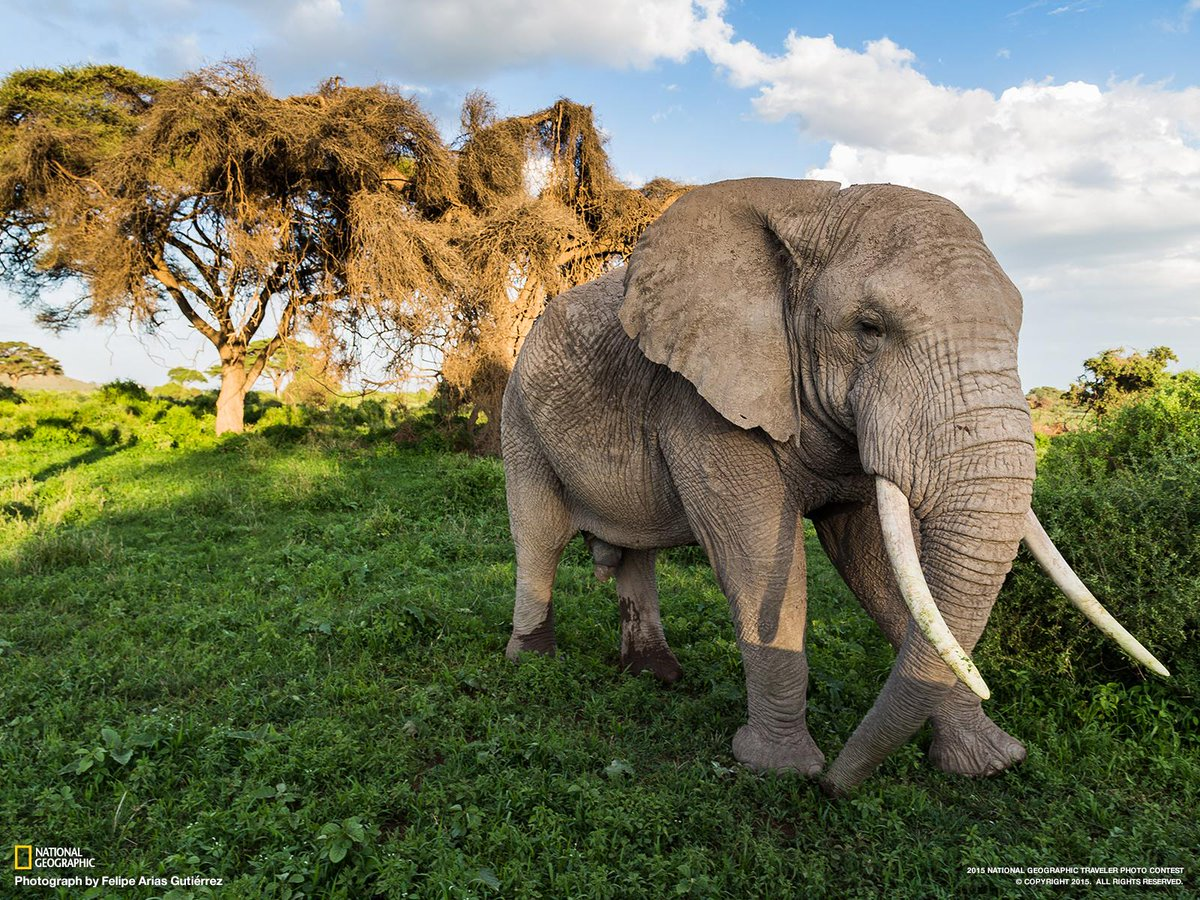
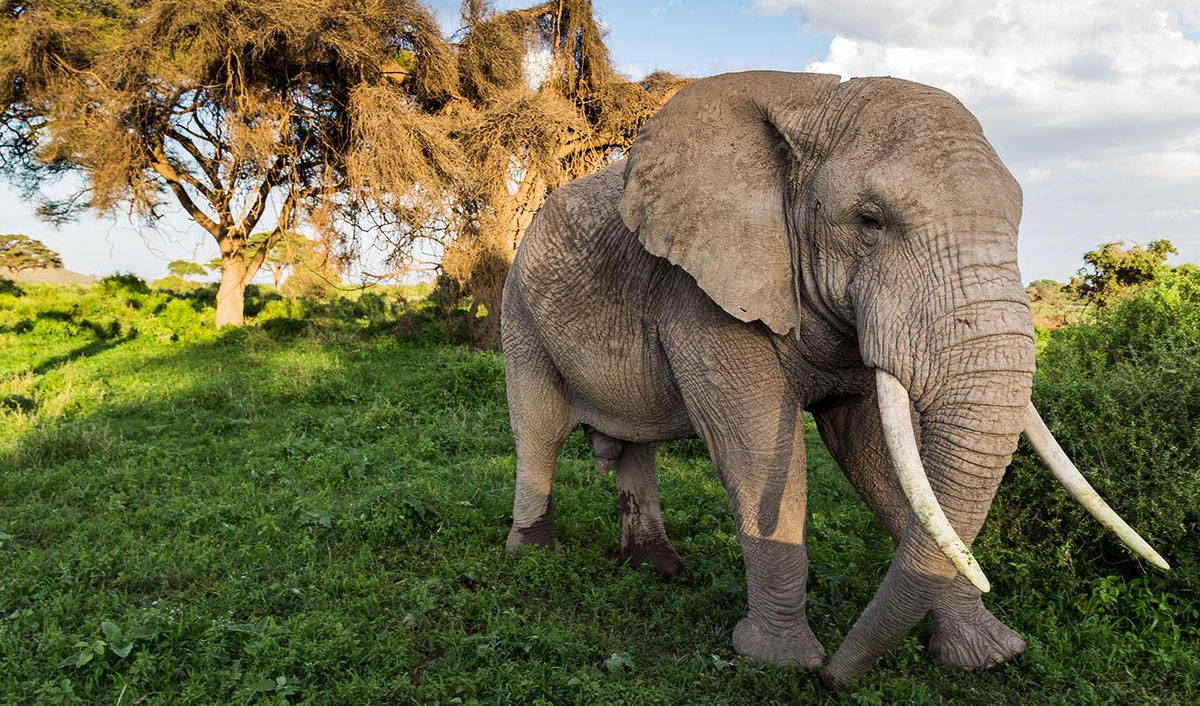
Fixed header image again

diff --git a/stylesheets/pages/_assignment-1.scss b/stylesheets/pages/_assignment-1.scss
@@ -9,15 +9,24 @@ body#assignment-1 {
         box-shadow: $shadow--1;
         max-width: 60%;
 
+        img {
+            filter: brightness(0.9);
+        }
+
         main > div:first-of-type {
             max-height: 400px;
             overflow: hidden;
             box-shadow: rgba(0, 0, 0, 0.24) 0px 3px 8px;
+            margin-bottom: 1.5em;
 
             img {
                 position: relative;
-                bottom: 10vw;
-            }
+                bottom: 5vw;
+
+                @media(max-width: 1400px) {
+                    bottom: 0;
+                }
+            }   
         }
        
         & > * {
@@ -66,7 +75,6 @@ body#assignment-1 {
             
             img {
                 box-shadow: rgba(0, 0, 0, 0.24) 0px 3px 8px;
-
             }
 
             figcaption {

diff --git a/stylesheets/css/main.css b/stylesheets/css/main.css
@@ -196,14 +196,23 @@ body#assignment-1 > div {
   box-shadow: rgba(50, 50, 93, 0.25) 0px 13px 27px -5px, rgba(0, 0, 0, 0.3) 0px 8px 16px -8px;
   max-width: 60%;
 }
+body#assignment-1 > div img {
+  filter: brightness(0.9);
+}
 body#assignment-1 > div main > div:first-of-type {
   max-height: 400px;
   overflow: hidden;
   box-shadow: rgba(0, 0, 0, 0.24) 0px 3px 8px;
+  margin-bottom: 1.5em;
 }
 body#assignment-1 > div main > div:first-of-type img {
   position: relative;
-  bottom: 10vw;
+  bottom: 5vw;
+}
+@media (max-width: 1400px) {
+  body#assignment-1 > div main > div:first-of-type img {
+    bottom: 0;
+  }
 }
 body#assignment-1 > div > * {
   margin-bottom: 1.5em;
